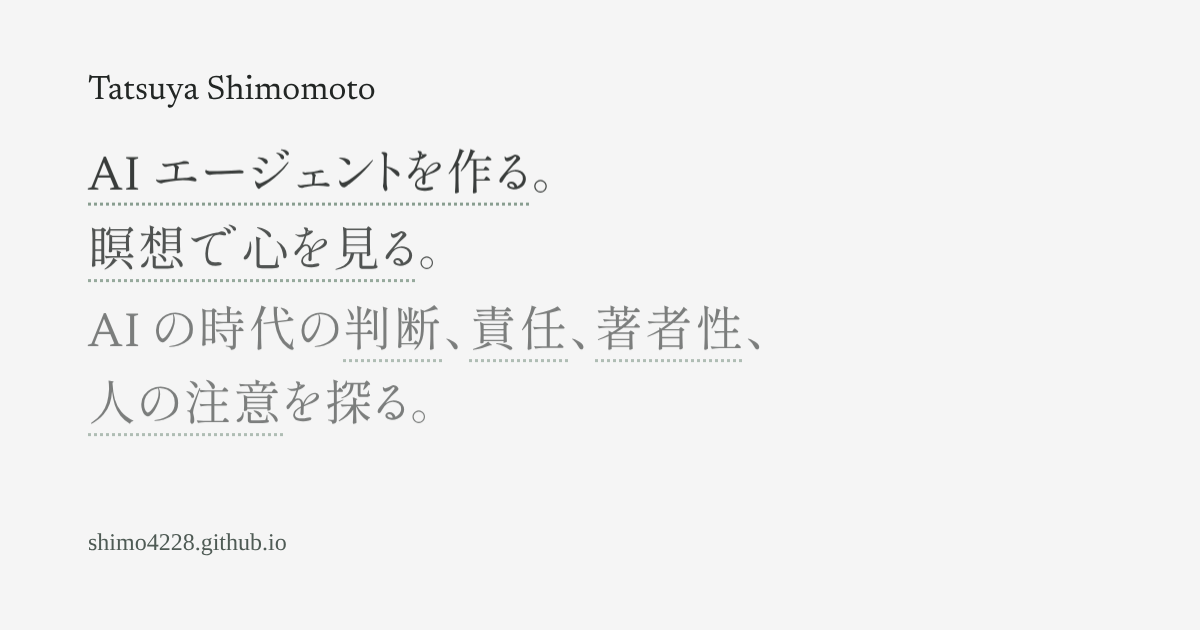
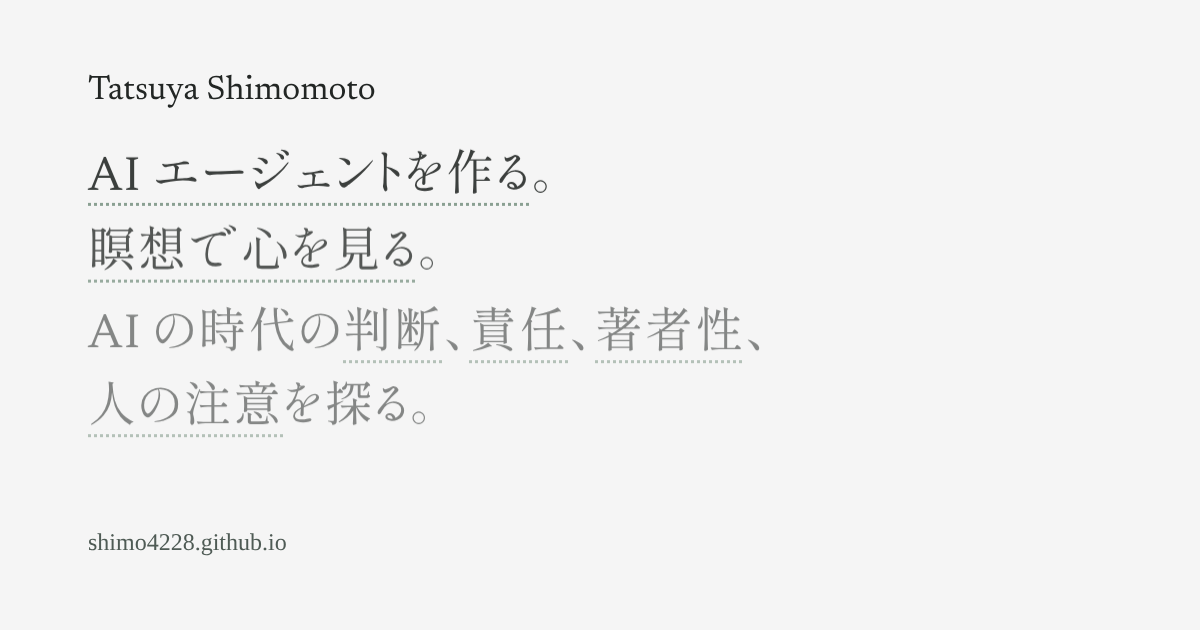
Build: items fade up once as they come into view
Built from source commit c67e671.

Claude-Session: https://claude.ai/code/session_017WmoS2143ZVSEDbws4Larm

diff --git a/site.css b/site.css
@@ -1013,36 +1013,21 @@ a {
 }
 
 /* ---------- Forced colours and print ---------- */
-/* Scrolling in: each work, intro, quoted title and piece fades up as it enters the screen, one after another as
-   the page moves (竜也, 2026-10-18, after hiraoku.dev). CSS only (view timelines), so where the browser lacks them
-   (Firefox) or motion is reduced, everything is simply there. Anything already on screen when the page opens is
-   past its entry, so it shows at once. */
-@media screen and (prefers-reduced-motion: no-preference) {
-  @supports (animation-timeline: view()) {
-    :is(.work, .section-intro, .entrance-group, .piece, .fact, .year-label, .about-next) {
-      animation: scroll-in linear both;
-      animation-timeline: view();
-      /* Over the lower half of the screen, so the rise is seen rather than finished at the bottom edge. */
-      animation-range: cover 0% cover 40%;
-    }
-
-    /* The quoted title is sticky, so it follows its section's timeline rather than its own. */
-    .gloss {
-      view-timeline-name: --gloss;
-    }
-
-    .gloss > .section-title {
-      animation: scroll-in cubic-bezier(0.2, 0.6, 0.2, 1) both;
-      animation-timeline: --gloss;
-      animation-range: entry 0% entry 30%;
-    }
-  }
-}
-
-@keyframes scroll-in {
-  from {
+/* Reveal: each work, intro, quoted title and piece fades up once as it comes into view (the script in the page head
+   adds .reveal, then .in per item; 竜也, 2026-10-18, after hiraoku.dev/blog). Without the script, or with reduced
+   motion, nothing is hidden. */
+@media screen {
+  .reveal :is(.work, .section-intro, .gloss > .section-title, .entrance-group, .piece, .fact, .year-label, .about-next) {
     opacity: 0;
     translate: 0 1.5rem;
+    transition:
+      opacity 0.8s cubic-bezier(0.2, 0.6, 0.2, 1),
+      translate 0.8s cubic-bezier(0.2, 0.6, 0.2, 1);
+  }
+
+  .reveal :is(.work, .section-intro, .gloss > .section-title, .entrance-group, .piece, .fact, .year-label, .about-next).in {
+    opacity: 1;
+    translate: 0 0;
   }
 }
 

diff --git a/ja/index.html b/ja/index.html
@@ -30,7 +30,8 @@
 <link rel="icon" href="/favicon.svg" type="image/svg+xml">
 <link rel="apple-touch-icon" href="/apple-touch-icon.png">
 <link rel="preload" href="/fonts/newsreader-latin-400-normal.woff2" as="font" type="font/woff2" crossorigin>
-<link rel="stylesheet" href="/site.css?v=f94d3de003">
+<link rel="stylesheet" href="/site.css?v=9dd3b96a9b">
+<script>(()=>{if(!matchMedia('(prefers-reduced-motion: no-preference)').matches||!('IntersectionObserver'in window))return;const d=document.documentElement;d.classList.add('reveal');addEventListener('DOMContentLoaded',()=>{const io=new IntersectionObserver(es=>{let i=0;for(const e of es){if(!e.isIntersecting)continue;e.target.style.transitionDelay=Math.min(i++,5)*90+'ms';e.target.classList.add('in');io.unobserve(e.target)}},{rootMargin:'0px 0px -8% 0px'});document.querySelectorAll('.work,.section-intro,.gloss>.section-title,.entrance-group,.piece,.fact,.year-label,.about-next').forEach(el=>io.observe(el))})})()</script>
 <script type="application/ld+json">{"@context":"https://schema.org","@type":"ProfilePage","@id":"https://shimo4228.github.io/ja/#page","url":"https://shimo4228.github.io/ja/","inLanguage":"ja","mainEntity":{"@type":"Person","@id":"https://orcid.org/0009-0002-6168-4162","name":"Tatsuya Shimomoto","alternateName":"shimo4228","description":"Building AI agents, and watching the mind through meditation. Exploring judgment, accountability, authorship, and human attention in the age of AI.","url":"https://shimo4228.github.io/","sameAs":["https://github.com/shimo4228","https://orcid.org/0009-0002-6168-4162","https://scholar.google.com/citations?user=56_p8vEAAAAJ","https://openalex.org/A5130593171","https://huggingface.co/Shimo4228","https://zenn.dev/shimo4228","https://dev.to/shimo4228","https://note.com/shimo4228","https://shimo4228.substack.com","https://x.com/shimo4228","https://note.com/sakamaki4228","https://x.com/sakamakiuzutaro","https://shimo4228.github.io/shimo4228/"]}}</script>
 </head>
 <body>

diff --git a/index.html b/index.html
@@ -30,7 +30,8 @@
 <link rel="icon" href="/favicon.svg" type="image/svg+xml">
 <link rel="apple-touch-icon" href="/apple-touch-icon.png">
 <link rel="preload" href="/fonts/newsreader-latin-400-normal.woff2" as="font" type="font/woff2" crossorigin>
-<link rel="stylesheet" href="/site.css?v=f94d3de003">
+<link rel="stylesheet" href="/site.css?v=9dd3b96a9b">
+<script>(()=>{if(!matchMedia('(prefers-reduced-motion: no-preference)').matches||!('IntersectionObserver'in window))return;const d=document.documentElement;d.classList.add('reveal');addEventListener('DOMContentLoaded',()=>{const io=new IntersectionObserver(es=>{let i=0;for(const e of es){if(!e.isIntersecting)continue;e.target.style.transitionDelay=Math.min(i++,5)*90+'ms';e.target.classList.add('in');io.unobserve(e.target)}},{rootMargin:'0px 0px -8% 0px'});document.querySelectorAll('.work,.section-intro,.gloss>.section-title,.entrance-group,.piece,.fact,.year-label,.about-next').forEach(el=>io.observe(el))})})()</script>
 <script type="application/ld+json">{"@context":"https://schema.org","@type":"ProfilePage","@id":"https://shimo4228.github.io/#page","url":"https://shimo4228.github.io/","inLanguage":"en","mainEntity":{"@type":"Person","@id":"https://orcid.org/0009-0002-6168-4162","name":"Tatsuya Shimomoto","alternateName":"shimo4228","description":"Building AI agents, and watching the mind through meditation. Exploring judgment, accountability, authorship, and human attention in the age of AI.","url":"https://shimo4228.github.io/","sameAs":["https://github.com/shimo4228","https://orcid.org/0009-0002-6168-4162","https://scholar.google.com/citations?user=56_p8vEAAAAJ","https://openalex.org/A5130593171","https://huggingface.co/Shimo4228","https://zenn.dev/shimo4228","https://dev.to/shimo4228","https://note.com/shimo4228","https://shimo4228.substack.com","https://x.com/shimo4228","https://note.com/sakamaki4228","https://x.com/sakamakiuzutaro","https://shimo4228.github.io/shimo4228/"]}}</script>
 </head>
 <body>

diff --git a/404.html b/404.html
@@ -27,7 +27,8 @@
 <link rel="icon" href="/favicon.svg" type="image/svg+xml">
 <link rel="apple-touch-icon" href="/apple-touch-icon.png">
 <link rel="preload" href="/fonts/newsreader-latin-400-normal.woff2" as="font" type="font/woff2" crossorigin>
-<link rel="stylesheet" href="/site.css?v=f94d3de003">
+<link rel="stylesheet" href="/site.css?v=9dd3b96a9b">
+<script>(()=>{if(!matchMedia('(prefers-reduced-motion: no-preference)').matches||!('IntersectionObserver'in window))return;const d=document.documentElement;d.classList.add('reveal');addEventListener('DOMContentLoaded',()=>{const io=new IntersectionObserver(es=>{let i=0;for(const e of es){if(!e.isIntersecting)continue;e.target.style.transitionDelay=Math.min(i++,5)*90+'ms';e.target.classList.add('in');io.unobserve(e.target)}},{rootMargin:'0px 0px -8% 0px'});document.querySelectorAll('.work,.section-intro,.gloss>.section-title,.entrance-group,.piece,.fact,.year-label,.about-next').forEach(el=>io.observe(el))})})()</script>
 </head>
 <body>
 <a class="skip-link" href="#main">Skip to content</a>

diff --git a/about/index.html b/about/index.html
@@ -30,7 +30,8 @@
 <link rel="icon" href="/favicon.svg" type="image/svg+xml">
 <link rel="apple-touch-icon" href="/apple-touch-icon.png">
 <link rel="preload" href="/fonts/newsreader-latin-400-normal.woff2" as="font" type="font/woff2" crossorigin>
-<link rel="stylesheet" href="/site.css?v=f94d3de003">
+<link rel="stylesheet" href="/site.css?v=9dd3b96a9b">
+<script>(()=>{if(!matchMedia('(prefers-reduced-motion: no-preference)').matches||!('IntersectionObserver'in window))return;const d=document.documentElement;d.classList.add('reveal');addEventListener('DOMContentLoaded',()=>{const io=new IntersectionObserver(es=>{let i=0;for(const e of es){if(!e.isIntersecting)continue;e.target.style.transitionDelay=Math.min(i++,5)*90+'ms';e.target.classList.add('in');io.unobserve(e.target)}},{rootMargin:'0px 0px -8% 0px'});document.querySelectorAll('.work,.section-intro,.gloss>.section-title,.entrance-group,.piece,.fact,.year-label,.about-next').forEach(el=>io.observe(el))})})()</script>
 </head>
 <body>
 <a class="skip-link" href="#main">Skip to content</a>

diff --git a/ja/about/index.html b/ja/about/index.html
@@ -30,7 +30,8 @@
 <link rel="icon" href="/favicon.svg" type="image/svg+xml">
 <link rel="apple-touch-icon" href="/apple-touch-icon.png">
 <link rel="preload" href="/fonts/newsreader-latin-400-normal.woff2" as="font" type="font/woff2" crossorigin>
-<link rel="stylesheet" href="/site.css?v=f94d3de003">
+<link rel="stylesheet" href="/site.css?v=9dd3b96a9b">
+<script>(()=>{if(!matchMedia('(prefers-reduced-motion: no-preference)').matches||!('IntersectionObserver'in window))return;const d=document.documentElement;d.classList.add('reveal');addEventListener('DOMContentLoaded',()=>{const io=new IntersectionObserver(es=>{let i=0;for(const e of es){if(!e.isIntersecting)continue;e.target.style.transitionDelay=Math.min(i++,5)*90+'ms';e.target.classList.add('in');io.unobserve(e.target)}},{rootMargin:'0px 0px -8% 0px'});document.querySelectorAll('.work,.section-intro,.gloss>.section-title,.entrance-group,.piece,.fact,.year-label,.about-next').forEach(el=>io.observe(el))})})()</script>
 </head>
 <body>
 <a class="skip-link" href="#main">本文へ移動</a>

diff --git a/ja/writing/index.html b/ja/writing/index.html
@@ -30,7 +30,8 @@
 <link rel="icon" href="/favicon.svg" type="image/svg+xml">
 <link rel="apple-touch-icon" href="/apple-touch-icon.png">
 <link rel="preload" href="/fonts/newsreader-latin-400-normal.woff2" as="font" type="font/woff2" crossorigin>
-<link rel="stylesheet" href="/site.css?v=f94d3de003">
+<link rel="stylesheet" href="/site.css?v=9dd3b96a9b">
+<script>(()=>{if(!matchMedia('(prefers-reduced-motion: no-preference)').matches||!('IntersectionObserver'in window))return;const d=document.documentElement;d.classList.add('reveal');addEventListener('DOMContentLoaded',()=>{const io=new IntersectionObserver(es=>{let i=0;for(const e of es){if(!e.isIntersecting)continue;e.target.style.transitionDelay=Math.min(i++,5)*90+'ms';e.target.classList.add('in');io.unobserve(e.target)}},{rootMargin:'0px 0px -8% 0px'});document.querySelectorAll('.work,.section-intro,.gloss>.section-title,.entrance-group,.piece,.fact,.year-label,.about-next').forEach(el=>io.observe(el))})})()</script>
 </head>
 <body>
 <a class="skip-link" href="#main">本文へ移動</a>

diff --git a/writing/index.html b/writing/index.html
@@ -30,7 +30,8 @@
 <link rel="icon" href="/favicon.svg" type="image/svg+xml">
 <link rel="apple-touch-icon" href="/apple-touch-icon.png">
 <link rel="preload" href="/fonts/newsreader-latin-400-normal.woff2" as="font" type="font/woff2" crossorigin>
-<link rel="stylesheet" href="/site.css?v=f94d3de003">
+<link rel="stylesheet" href="/site.css?v=9dd3b96a9b">
+<script>(()=>{if(!matchMedia('(prefers-reduced-motion: no-preference)').matches||!('IntersectionObserver'in window))return;const d=document.documentElement;d.classList.add('reveal');addEventListener('DOMContentLoaded',()=>{const io=new IntersectionObserver(es=>{let i=0;for(const e of es){if(!e.isIntersecting)continue;e.target.style.transitionDelay=Math.min(i++,5)*90+'ms';e.target.classList.add('in');io.unobserve(e.target)}},{rootMargin:'0px 0px -8% 0px'});document.querySelectorAll('.work,.section-intro,.gloss>.section-title,.entrance-group,.piece,.fact,.year-label,.about-next').forEach(el=>io.observe(el))})})()</script>
 </head>
 <body>
 <a class="skip-link" href="#main">Skip to content</a>
